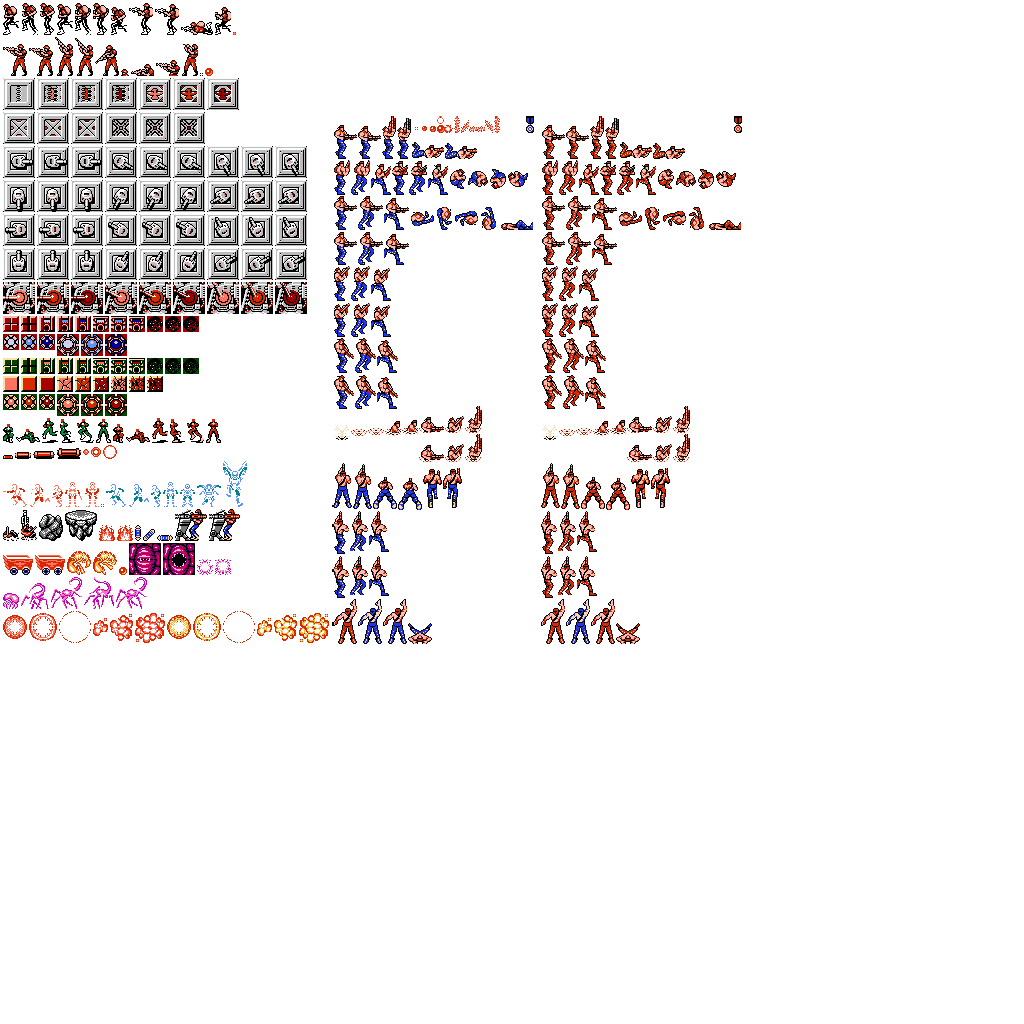
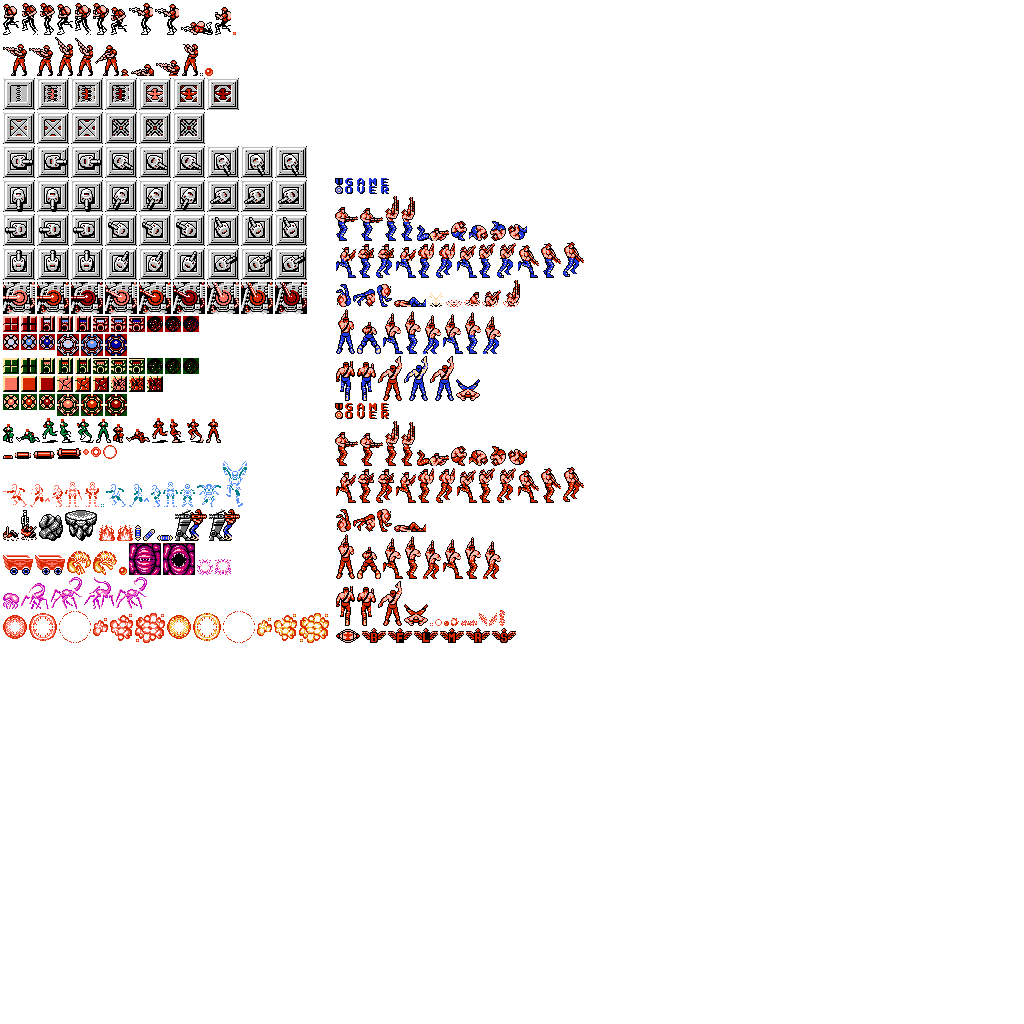
Added animations and changed png file

Changed region(s): [[0.3125, 0.0938, 0.7188, 0.625], [0.6875, 0.2188, 0.7188, 0.25]]

diff --git a/core/src/com/kwojewod/contra/sprites/Player.java b/core/src/com/kwojewod/contra/sprites/Player.java
@@ -1,29 +1,129 @@
 package com.kwojewod.contra.sprites;
 
+import com.badlogic.gdx.Gdx;
+import com.badlogic.gdx.graphics.g2d.Animation;
 import com.badlogic.gdx.graphics.g2d.Sprite;
 import com.badlogic.gdx.graphics.g2d.TextureAtlas;
 import com.badlogic.gdx.graphics.g2d.TextureRegion;
 import com.badlogic.gdx.math.Vector2;
 import com.badlogic.gdx.physics.box2d.*;
+import com.badlogic.gdx.utils.Array;
 import com.kwojewod.contra.Contra;
 import com.kwojewod.contra.screens.PlayScreen;
 
 public class Player extends Sprite {
+    public enum State {FALLING, JUMPING, STANDING, RUNNING};
+    public State currentState;
+    public State previousState;
     public World world;
     public Body b2Body;
     private TextureRegion heroStand;
+    private Animation<TextureRegion> heroRun;
+    private  Animation<TextureRegion> heroJump;
+    private Animation<TextureRegion> heroStandInWater;
+    private float stateTimer;
+    private  boolean runningRight;
+    private int widthOfSprite;
 
     public Player(World world, PlayScreen screen){
-        super(screen.getAtlas().findRegion("Heroes"));
+        super(screen.getAtlas().findRegion("NES_contra_heroes"));
         this.world = world;
+        currentState = State.STANDING;
+        previousState = State.STANDING;
+        stateTimer = 0;
+        runningRight = true;
+
+        Array<TextureRegion> frames = new Array<TextureRegion>();
+        //TODO Dodać reszte animacji
+        loadHeroRun(frames);
+        loadHeroJump(frames);
+
+
+        heroStand = new TextureRegion(getTexture(),335,207,22,35);
         definePlayer();
-        heroStand = new TextureRegion(getTexture(),334,125,22,32);
         setBounds(0,0, 22/ Contra.PPM,32/ Contra.PPM );
         setRegion(heroStand);
+    }
+    private void loadHeroRun( Array<TextureRegion> frames){
+        int pos = 0;
+        for(int i = 0; i < 6; i++){
+            if( i == 0 || i == 3)
+                widthOfSprite = 21;
+            else if ( i == 5)
+                widthOfSprite = 20;
+            else if(i== 1 || i == 4)
+                widthOfSprite = 17;
+            else
+                widthOfSprite = 19;
+            frames.add(new TextureRegion(getTexture(), 336 + pos, 244, widthOfSprite, 34));
+            System.out.println("Wczytywanie tekstury od x: " + (336 + pos) + "\n");
+            pos = pos + widthOfSprite + 1;
+
+
+        }
+        heroRun = new Animation<TextureRegion>(0.1f, frames);
+        frames.clear();
+    }
+    private  void loadHeroJump (Array<TextureRegion> frames){
+
+        int pos = 0;
+        for(int i = 0 ; i < 4; ++i){
+            if( i == 0 || i ==2)
+                widthOfSprite = 17;
+            else
+                widthOfSprite = 20;
+            frames.add(new TextureRegion(getTexture(), 451 + pos, 221, widthOfSprite, 19));
+            pos = pos + widthOfSprite + 1;
+        }
+        heroJump = new Animation<TextureRegion>(0.05f, frames);
+        frames.clear();
     }
 
     public void update(float dt){
         setPosition(b2Body.getPosition().x - getWidth() / 2, b2Body.getPosition().y - getHeight() / 2);
+        setRegion(getFrame(dt));
+    }
+
+    public TextureRegion getFrame(float dt){
+        currentState = getState();
+
+        TextureRegion region;
+        switch(currentState){
+            case JUMPING:
+                region = heroJump.getKeyFrame(stateTimer, true);
+                break;
+            case RUNNING:
+                region = heroRun.getKeyFrame(stateTimer, true);
+                break;
+            case FALLING:
+            case STANDING:
+            default:
+                region = heroStand;
+                break;
+        }
+        if((b2Body.getLinearVelocity().x < 0 || !runningRight) && !region.isFlipX()){
+            region.flip(true, false);
+            runningRight = false;
+        }
+        else if((b2Body.getLinearVelocity().x > 0 || runningRight) && region.isFlipX()){
+            region.flip(true, false);
+            runningRight = true;
+        }
+        stateTimer = currentState == previousState ? stateTimer + dt : 0;
+        previousState = currentState;
+        return region;
+    }
+
+
+    public State getState(){
+        if(b2Body.getLinearVelocity().y > 0 || (b2Body.getLinearVelocity().y < 0 && previousState == State.JUMPING))
+            return State.JUMPING;
+        else if(b2Body.getLinearVelocity().y < 0)
+            return State.FALLING;
+        else if(b2Body.getLinearVelocity().x != 0)
+            return State.RUNNING;
+        else
+            return State.STANDING;
     }
 
     public void definePlayer(){
@@ -34,7 +134,7 @@ public class Player extends Sprite {
 
         FixtureDef fdef = new FixtureDef();
         CircleShape shape = new CircleShape();
-        shape.setRadius(8 / Contra.PPM);
+        shape.setRadius(10 / Contra.PPM);
 
         fdef.shape = shape;
         b2Body.createFixture(fdef);

diff --git a/core/src/com/kwojewod/contra/screens/PlayScreen.java b/core/src/com/kwojewod/contra/screens/PlayScreen.java
@@ -85,7 +85,7 @@ public class PlayScreen implements Screen {
 	//TODO make handleInput usable
 	public void handleInput(float dt){
 		//Checking if key is being pressed
-		if(Gdx.input.isKeyJustPressed(Input.Keys.UP) ) {
+		if(Gdx.input.isKeyJustPressed(Input.Keys.SPACE) ) {
 			if(player.b2Body.getLinearVelocity().y == 0 || isGod)
 			player.b2Body.applyLinearImpulse(new Vector2(0, 4), player.b2Body.getWorldCenter(), true);
 
